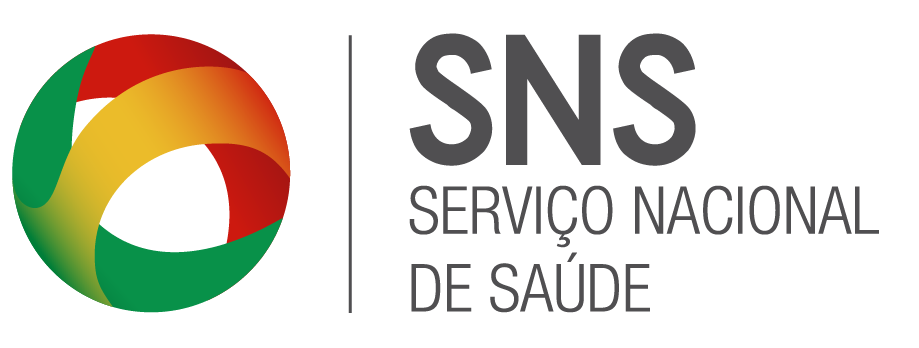
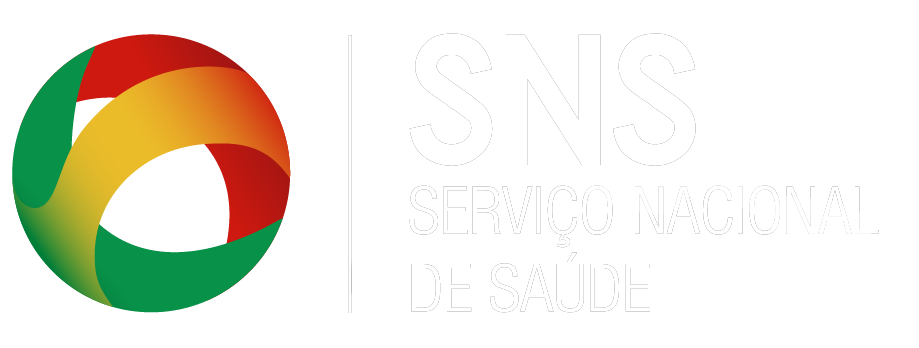
Added footer and news, and jump links

Changed region(s): [[0.4266, 0.5172, 0.975, 0.9195], [0.4266, 0.0862, 0.7617, 0.4885], [0.3656, 0.1149, 0.3961, 0.8908]]

diff --git a/index.html b/index.html
@@ -11,24 +11,25 @@
 </head>
 
 <body>
-	<nav>
+	<nav id="nav">
 		<a href="#"><img src="img/logo.png" alt="logo" class="logo"></a>
 		<ul>
-			<li class="active"><a href="index.html">Home</a></li>
-			<li><a href="#">Sobre nós</a></li>
-			<li><a href="#">Onde estamos?</a></li>
-			<li><a href="#">Contacta-nos</a></li>
+			<li class="active"><a href="#parallax">Home</a></li>
+			<li><a href="#about">Sobre nós</a></li>
+			<li><a href="#news">Novidades</a></li>
+			<li><a href="#wtfu">Onde estamos?</a></li>
+			<li><a href="#footer">Contacta-nos</a></li>
 		</ul>
 	</nav>
 
-	<div class="parallax">
+	<div id="parallax">
 		<div class="textbox">
 			<h1>Green Life</h1>
 			<p class="desc"><mark>100% Legal | Qualidade Máxima | Natural e Saudável</mark></p>
 		</div>
 	</div>
 
-	<div class="about">
+	<div id="about">
 		<div class="row">
 			<div class="col">
 				<h1>Sobre Nós</h1>
@@ -96,7 +97,7 @@
 		</div>
 	</div>
 
-	<div class="news">
+	<div id="news">
 		<div class="row">
 			<div class="col">
 				<h1>Novidades</h1>
@@ -112,7 +113,7 @@
 		</div>
 	</div>
 
-	<div class="wtfu">
+	<div id="wtfu">
 		<div class="row">
 			<div class="col">
 				<h1>Onde nos podem encontrar?</h1>
@@ -136,13 +137,31 @@
 		</div>
 	</div>
 
-	<div class="contact">
-
-	</div>
-
-	<footer>
-
+	<footer id="footer">
+		<div class="row">
+			<div class="col">
+				<h2>Links</h2>
+				<ul>
+					<li><a href="#parallax">Home</a></li>
+					<li><a href="#about">Sobre nós</a></li>
+					<li><a href="#news">Novidades</a></li>
+					<li><a href="#wtfu">Onde estamos?</a></li>
+				</ul>
+			</div>
+			<div class="col img6"></div>
+			<div class="col">
+				<h2>Contactos</h2>
+				<ul>
+					Apoio Médico
+					<li>+351 231 231 231</li>
+					Serviços
+					<li>+351 231 312 312</li>
+				</ul>
+			</div>
+		</div>
 	</footer>
+	<script src="https://code.jquery.com/jquery-3.3.1.min.js" integrity="sha256-FgpCb/KJQlLNfOu91ta32o/NMZxltwRo8QtmkMRdAu8="
+	 crossorigin="anonymous"></script>
 </body>
 
 </html>

diff --git a/css/main.css b/css/main.css
@@ -21,7 +21,7 @@ body {
 
 nav {
   width: 100%;
-  position: absolute;
+  position: fixed;
   background-color: #74c476;
   overflow: hidden;
   top: 0;
@@ -57,7 +57,7 @@ nav ul li:hover {
   background-color: #2f9b50;
 }
 
-.parallax {
+#parallax {
   background-image: url(../img/cannabis.jpg);
   height: 100%;
   background-size: cover;
@@ -67,7 +67,7 @@ nav ul li:hover {
   color: #fff;
 }
 
-.parallax .textbox {
+#parallax .textbox {
   text-align: center;
   position: relative;
   top: 40%;
@@ -179,15 +179,24 @@ mark {
   color: white;
 }
 
-.about .row:first-child .col,
-.wtfu .row:first-child .col,
-.news .row:first-child .col {
+.img6 {
+  background-image: url(../img/sns.png);
+  background-position: center;
+  background-size: 300px;
+  background-repeat: no-repeat;
+}
+
+#about .row:first-child .col,
+#wtfu .row:first-child .col,
+#news .row:first-child .col,
+footer {
   background-color: #74c476;
 }
 
-.about .row:first-child .col h1,
-.wtfu .row:first-child .col h1,
-.news .row:first-child .col h1 {
+#about .row:first-child .col h1,
+#wtfu .row:first-child .col h1,
+#news .row:first-child .col h1,
+footer h1 {
   font-size: 50px;
   text-align: center;
   color: #fff;
@@ -196,5 +205,28 @@ mark {
 .map {
   overflow: hidden;
   width: 100%;
+}
+
+footer .row .col {
+  text-align: center;
+  color: #fff;
+}
+
+footer .row .col ul {
+  text-align: left;
+}
+
+footer .row .col ul li {
+  list-style: none;
+  text-align: left;
+}
+
+footer .row .col ul li a {
+  text-decoration: none;
+  color: #fff;
+}
+
+footer .row .col h2 {
+  text-decoration: underline;
 }
 /*# sourceMappingURL=main.css.map */

diff --git a/css/main.scss b/css/main.scss
@@ -26,7 +26,7 @@ body {
 
 nav {
   width: 100%;
-  position: absolute;
+  position: fixed;
   background-color: $nav-color;
   overflow: hidden;
   top: 0;
@@ -56,7 +56,7 @@ nav {
   }
 }
 
-.parallax {
+#parallax {
   background-image: url(../img/cannabis.jpg);
   height: 100%;
   background-size: cover;
@@ -159,9 +159,17 @@ mark {
   }
 }
 
-.about .row:first-child .col,
-.wtfu .row:first-child .col,
-.news .row:first-child .col {
+.img6 {
+  background-image: url(../img/sns.png);
+  background-position: center;
+  background-size: 300px;
+  background-repeat: no-repeat;
+}
+
+#about .row:first-child .col,
+#wtfu .row:first-child .col,
+#news .row:first-child .col,
+footer {
   background-color: $nav-color;
   h1 {
     font-size: 50px;
@@ -173,4 +181,23 @@ mark {
 .map {
   overflow: hidden;
   width: 100%;
+}
+
+footer .row .col {
+  text-align: center;
+  color: #fff;
+  ul {
+    text-align: left;
+    li {
+      list-style: none;
+      text-align: left;
+      a {
+        text-decoration: none;
+        color: #fff;
+      }
+    }
+  }
+  h2 {
+    text-decoration: underline;
+  }
 }

diff --git a/js/main.js b/js/main.js
@@ -1,0 +1,24 @@
+$(document).ready(function () {
+  // Add smooth scrolling to all links
+  $("a").on('click', function (event) {
+
+    // Make sure this.hash has a value before overriding default behavior
+    if (this.hash !== "") {
+      // Prevent default anchor click behavior
+      event.preventDefault();
+
+      // Store hash
+      var hash = this.hash;
+
+      // Using jQuery's animate() method to add smooth page scroll
+      // The optional number (800) specifies the number of milliseconds it takes to scroll to the specified area
+      $('html, body').animate({
+        scrollTop: $(hash).offset().top
+      }, 800, function () {
+
+        // Add hash (#) to URL when done scrolling (default click behavior)
+        window.location.hash = hash;
+      });
+    } // End if
+  });
+});
